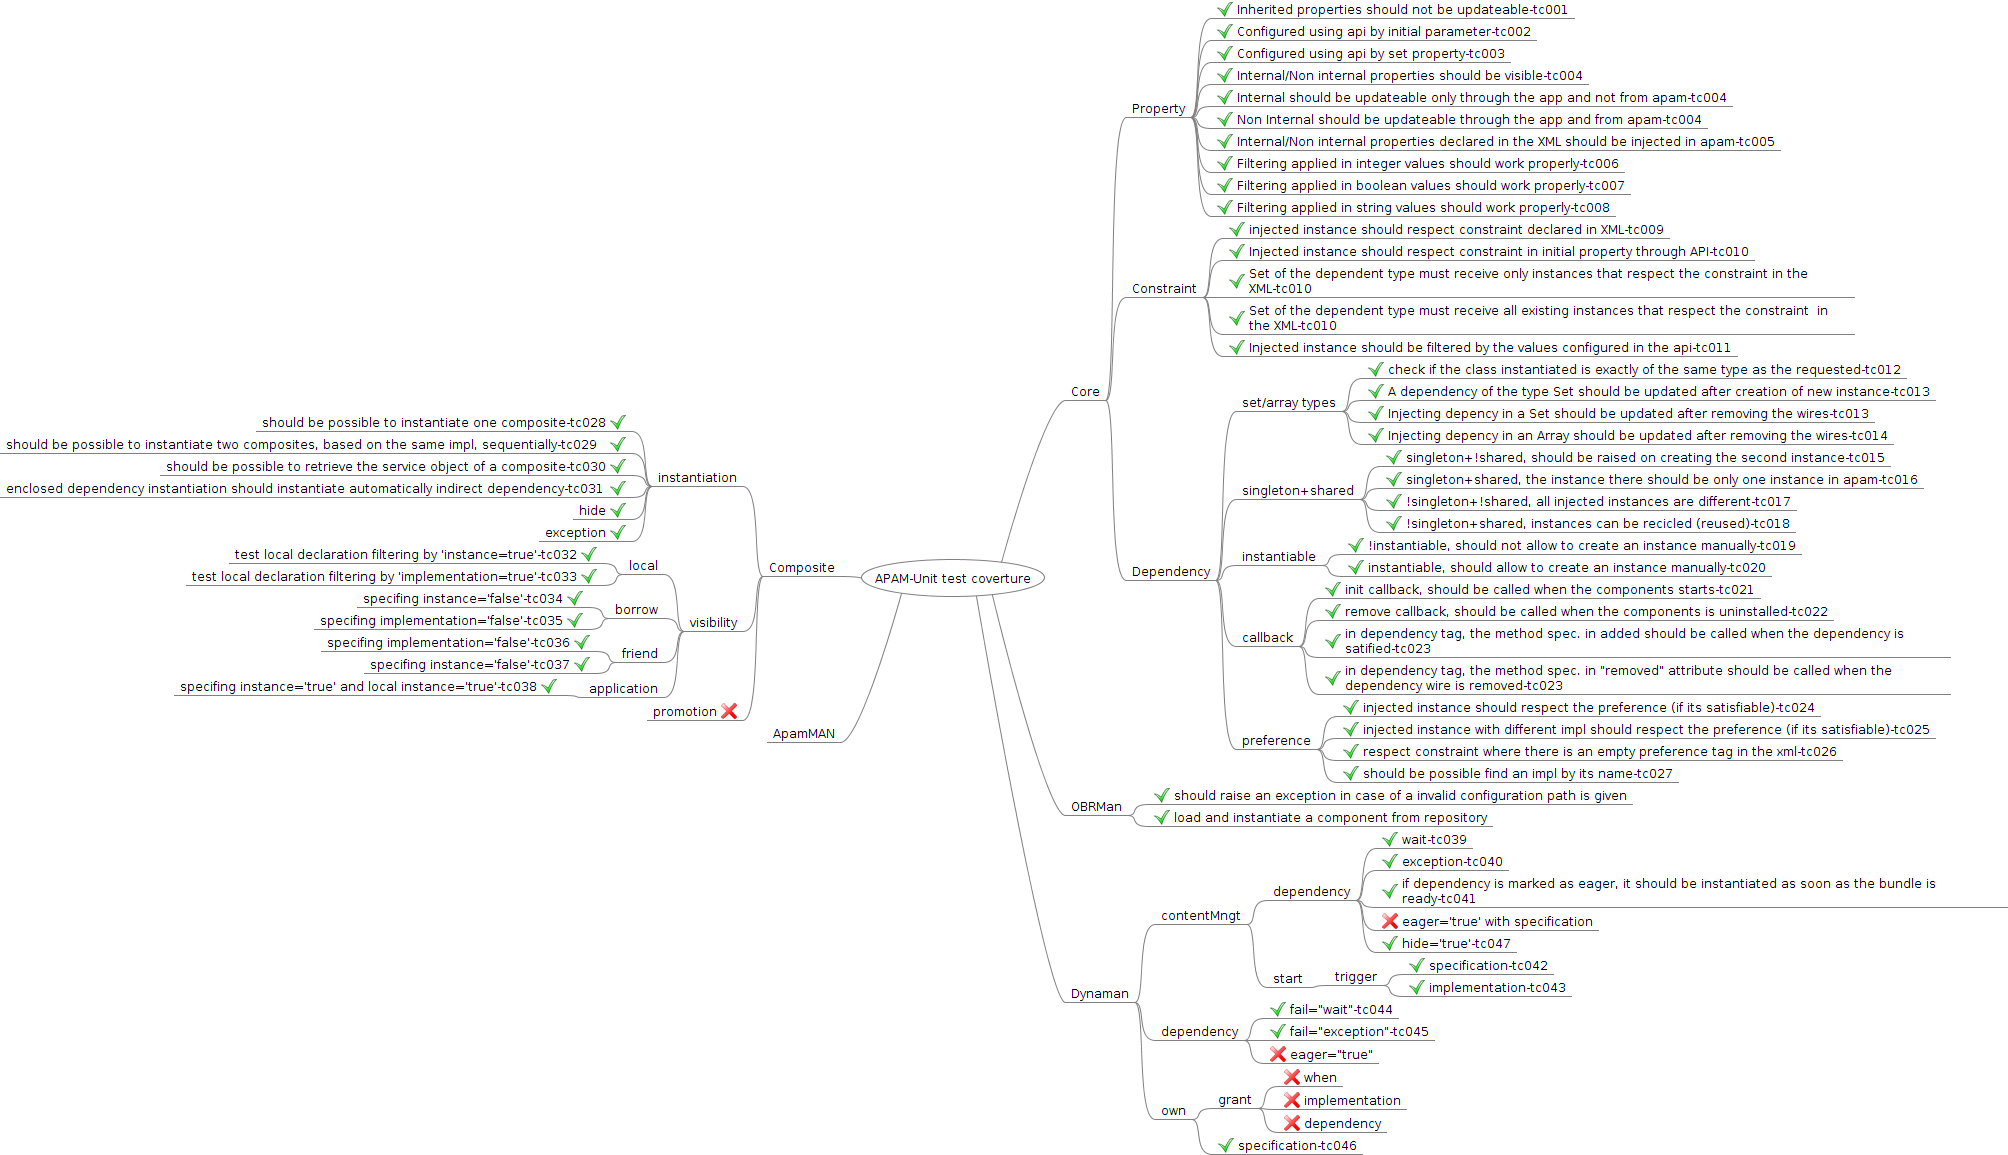
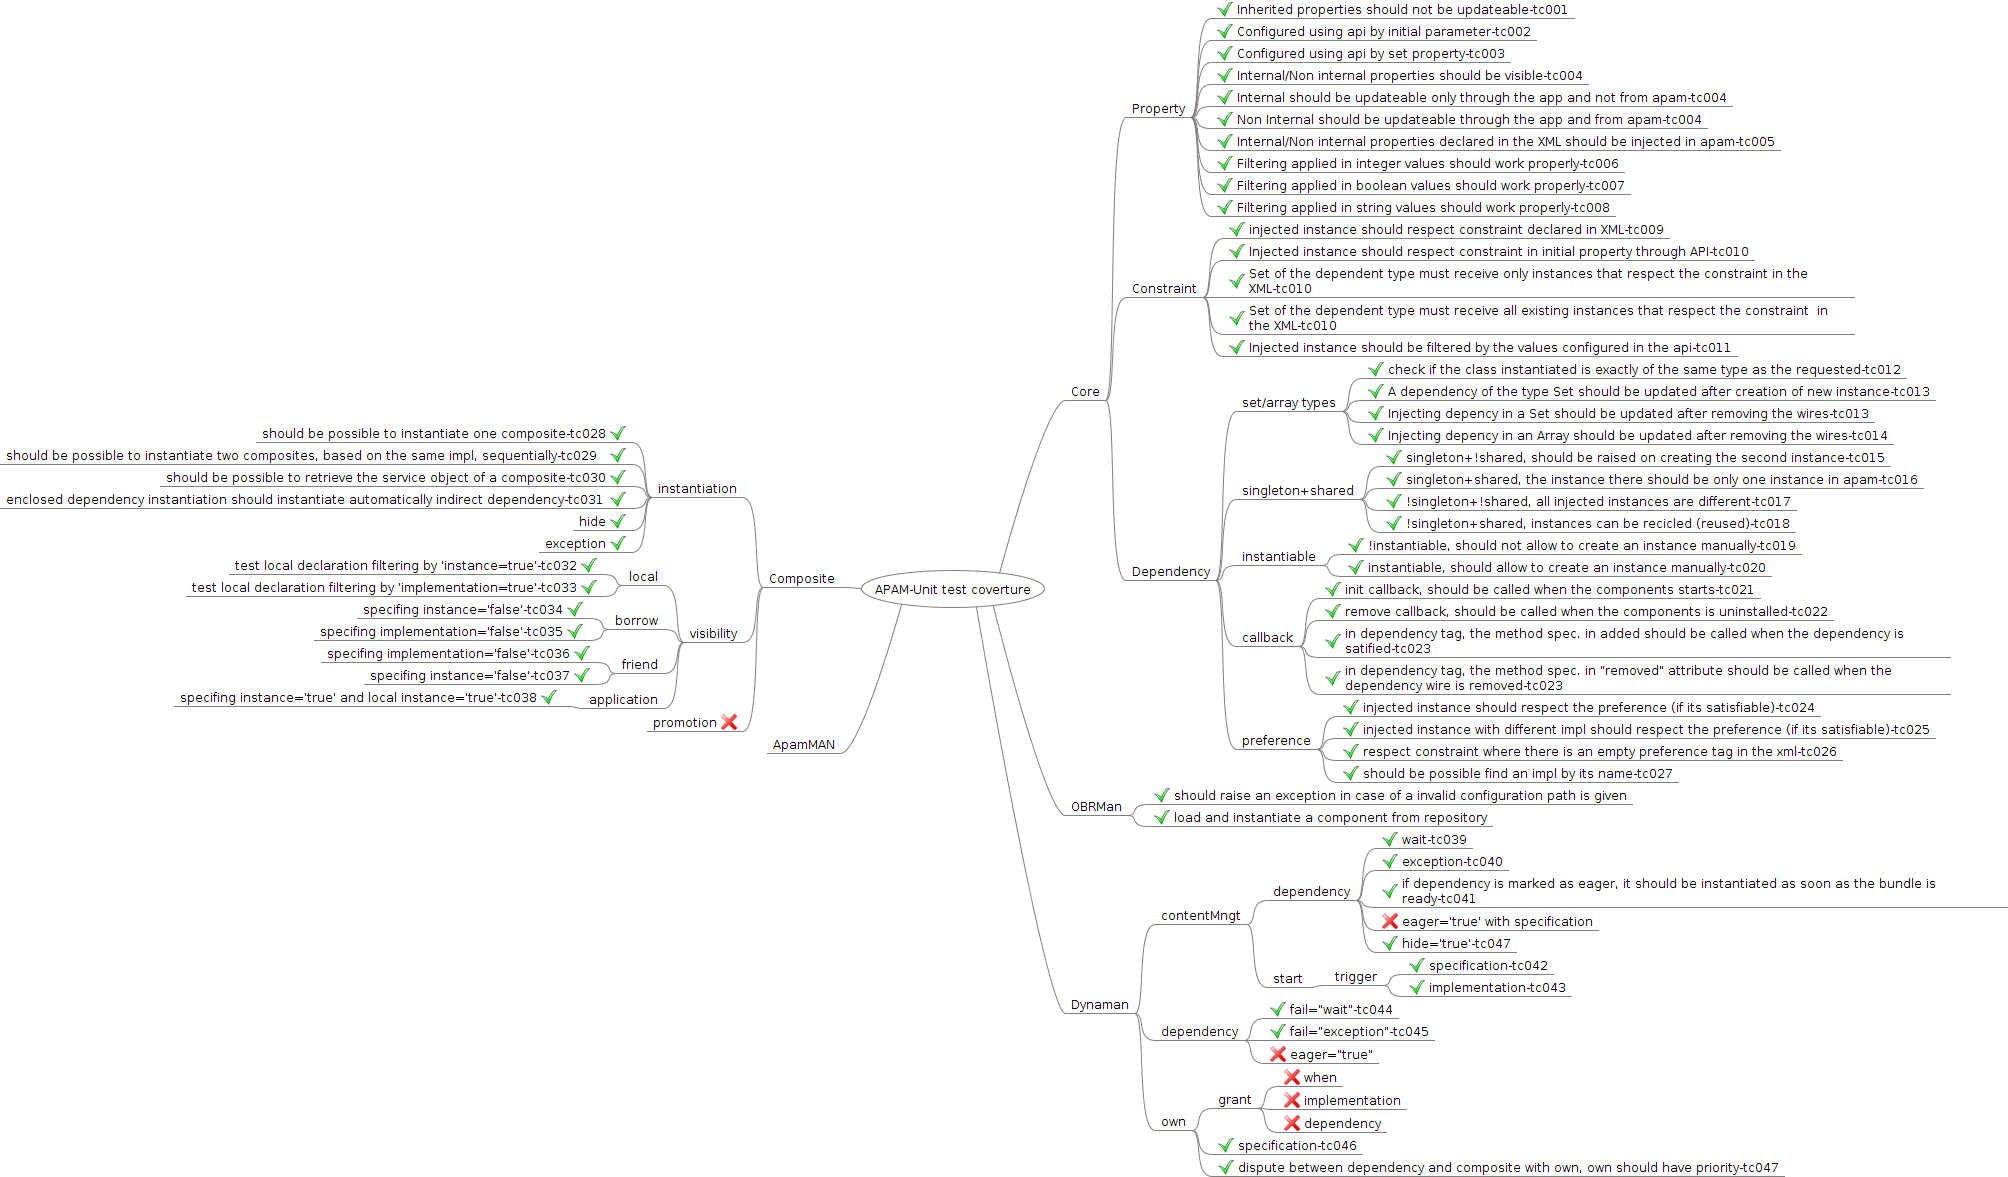
adding test tc047 - composite dispute

diff --git a/tests/services/pax-test/src/test/java/fr/imag/adele/apam/test/testcases/DynamanDependentTest.java b/tests/services/pax-test/src/test/java/fr/imag/adele/apam/test/testcases/DynamanDependentTest.java
@@ -12,6 +12,7 @@ import org.junit.runner.RunWith;
 import org.ops4j.pax.exam.Configuration;
 import org.ops4j.pax.exam.Option;
 import org.ops4j.pax.exam.junit.JUnit4TestRunner;
+import org.osgi.framework.Bundle;
 
 import fr.imag.adele.apam.CST;
 import fr.imag.adele.apam.Composite;
@@ -19,8 +20,8 @@ import fr.imag.adele.apam.CompositeType;
 import fr.imag.adele.apam.Implementation;
 import fr.imag.adele.apam.Instance;
 import fr.imag.adele.apam.pax.test.iface.device.Eletronic;
-import fr.imag.adele.apam.pax.test.impl.FailException;
-import fr.imag.adele.apam.pax.test.impl.S3GroupAImpl;
+import fr.imag.adele.apam.pax.test.s3.impl.FailException;
+import fr.imag.adele.apam.pax.test.s3.impl.S3GroupAImpl;
 import fr.imag.adele.apam.tests.helpers.Constants;
 import fr.imag.adele.apam.tests.helpers.ExtensionAbstract;
 
@@ -357,9 +358,41 @@ public class DynamanDependentTest extends ExtensionAbstract {
 		Assert.assertTrue(message, instancesOfImplementation.size() == 1);
 
 	}
-	
 
+	@Test
+	public void CompositeContentMngtDisputeAmongInjectionAndOwn_tc047() {
 
+		Implementation sharedDependencyImpl = (Implementation) CST.apamResolver.findImplByName(
+				null, "BoschSwitch");
+		
+		Instance sharedDependency=sharedDependencyImpl.createInstance(null, null);
+		
+		CompositeType compositeAImpl = (CompositeType) CST.apamResolver.findImplByName(
+				null, "composite-a");
+		
+		Composite compositeA=(Composite)compositeAImpl.createInstance(null, null);
+		
+		S3GroupAImpl s3b=(S3GroupAImpl)compositeA.getMainInst().getServiceObject();
+		s3b.getElement();
+		
+		System.out.println("Original composite:"+sharedDependency.getComposite());
+		
+		apam.waitForIt(Constants.CONST_WAIT_TIME);
+		
+		CompositeType compositeBImpl = (CompositeType) CST.apamResolver.findImplByName(
+				null, "composite-a-dispute-inject-own");
+
+		Composite compositeB = (Composite) compositeBImpl.createInstance(null, null);
+		
+		apam.waitForIt(Constants.CONST_WAIT_TIME);
+
+		System.out.println("Composite after the own composite instantiation:"+sharedDependency.getComposite());
+		
+		String message="Class A needs the instance IC, when B composite (declaring that owns IC) is instantiated, the IC should receive as parent composite the composite B. This did not happened";
+		
+		Assert.assertTrue(message,sharedDependency.getComposite() == compositeB);
+
+	}
 	
 
 

diff --git a/tests/services/pax-test/src/test/java/fr/imag/adele/apam/test/testcases/ConstraintTest.java b/tests/services/pax-test/src/test/java/fr/imag/adele/apam/test/testcases/ConstraintTest.java
@@ -128,11 +128,10 @@ public class ConstraintTest extends ExtensionAbstract{
 			{
 				add(siemensInst);
 				add(lgInst);
+				add(boschInst);
 				add(samsungInst);
 			}
 		};
-
-		apam.waitForIt(Constants.CONST_WAIT_TIME);
 
 		Implementation s1Impl = CST.apamResolver.findImplByName(null,
 				"fr.imag.adele.apam.pax.test.impl.S1Impl");
@@ -140,7 +139,7 @@ public class ConstraintTest extends ExtensionAbstract{
 		Instance s1Inst = s1Impl.createInstance(null, null);
 		S1Impl s1 = (S1Impl) s1Inst.getServiceObject();
 
-		
+		apam.waitForIt(Constants.CONST_WAIT_TIME);
 		
 		for (Eletronic e : s1.getEletronicInstancesConstraintsInstance()) {
 			Instance p = CST.componentBroker.getInstService(e);
@@ -203,15 +202,16 @@ public class ConstraintTest extends ExtensionAbstract{
 		boschInst.setProperty("currentVoltage", "110");
 		philipsInst.setProperty("currentVoltage", "117");
 		
+		apam.waitForIt(Constants.CONST_WAIT_TIME);
+		
 		Set<Instance> validInstances = new HashSet<Instance>() {
 			{
 				add(siemensInst);
 				add(lgInst);
+				add(boschInst);
 				add(samsungInst);
 			}
 		};
-
-		apam.waitForIt(Constants.CONST_WAIT_TIME);
 
 		Implementation s1Impl = CST.apamResolver.findImplByName(null,
 				"fr.imag.adele.apam.pax.test.impl.S1Impl");
@@ -219,6 +219,8 @@ public class ConstraintTest extends ExtensionAbstract{
 		Instance s1Inst = s1Impl.createInstance(null, null);
 		S1Impl s1 = (S1Impl) s1Inst.getServiceObject();
 
+		apam.waitForIt(Constants.CONST_WAIT_TIME);
+		
 		auxListInstanceReferencedBy("#################",s1.getEletronicInstancesConstraintsInstance());
 		
 		
@@ -245,11 +247,9 @@ public class ConstraintTest extends ExtensionAbstract{
 		auxListInstances("--------------");
 
 		// check if there is no other instance injected
-		Assert.assertTrue("The number of valid instances and the number of injected instances differ, instances not expected were injected",s1.getEletronicInstancesConstraintsInstance().size() == validInstances
+		Assert.assertTrue(String.format("The number of valid instances and the number of injected instances differ, instances not expected were injected. %d injected instead of %d",s1.getEletronicInstancesConstraintsInstance().size(),validInstances.size()),s1.getEletronicInstancesConstraintsInstance().size() == validInstances
 				.size());
 
 	}
-	
-
 	
 }

diff --git a/tests/services/app/apam-pax-samples-impl-s3/src/main/java/fr/imag/adele/apam/pax/test/s3/impl/S3GroupBImpl.java b/tests/services/app/apam-pax-samples-impl-s3/src/main/java/fr/imag/adele/apam/pax/test/s3/impl/S3GroupBImpl.java
@@ -1,13 +1,17 @@
-package fr.imag.adele.apam.pax.test.impl;
+package fr.imag.adele.apam.pax.test.s3.impl;
 
 import fr.imag.adele.apam.pax.test.iface.S3;
 import fr.imag.adele.apam.pax.test.iface.device.Eletronic;
 
 
-public class S3GroupFImpl implements S3
+public class S3GroupBImpl implements S3
 {
 
 	Eletronic element;
+	
+	S3 d;
+	
+	S3 e;
 	
     public String whoami()
     {
@@ -20,6 +24,22 @@ public class S3GroupFImpl implements S3
 
 	public void setElement(Eletronic element) {
 		this.element = element;
+	}
+
+	public S3 getD() {
+		return d;
+	}
+
+	public void setD(S3 d) {
+		this.d = d;
+	}
+
+	public S3 getE() {
+		return e;
+	}
+
+	public void setE(S3 e) {
+		this.e = e;
 	}
     
 }

diff --git a/tests/services/app/apam-pax-samples-impl-s3/src/main/java/fr/imag/adele/apam/pax/test/s3/impl/S3GroupFImpl.java b/tests/services/app/apam-pax-samples-impl-s3/src/main/java/fr/imag/adele/apam/pax/test/s3/impl/S3GroupFImpl.java
@@ -1,17 +1,13 @@
-package fr.imag.adele.apam.pax.test.impl;
+package fr.imag.adele.apam.pax.test.s3.impl;
 
 import fr.imag.adele.apam.pax.test.iface.S3;
 import fr.imag.adele.apam.pax.test.iface.device.Eletronic;
 
 
-public class S3GroupBImpl implements S3
+public class S3GroupFImpl implements S3
 {
 
 	Eletronic element;
-	
-	S3 d;
-	
-	S3 e;
 	
     public String whoami()
     {
@@ -24,22 +20,6 @@ public class S3GroupBImpl implements S3
 
 	public void setElement(Eletronic element) {
 		this.element = element;
-	}
-
-	public S3 getD() {
-		return d;
-	}
-
-	public void setD(S3 d) {
-		this.d = d;
-	}
-
-	public S3 getE() {
-		return e;
-	}
-
-	public void setE(S3 e) {
-		this.e = e;
 	}
     
 }

diff --git a/tests/services/app/apam-pax-samples-impl-s3/src/main/java/fr/imag/adele/apam/pax/test/s3/impl/S3GroupDImpl.java b/tests/services/app/apam-pax-samples-impl-s3/src/main/java/fr/imag/adele/apam/pax/test/s3/impl/S3GroupDImpl.java
@@ -1,15 +1,13 @@
-package fr.imag.adele.apam.pax.test.impl;
+package fr.imag.adele.apam.pax.test.s3.impl;
 
 import fr.imag.adele.apam.pax.test.iface.S3;
 import fr.imag.adele.apam.pax.test.iface.device.Eletronic;
 
 
-public class S3GroupEImpl implements S3
+public class S3GroupDImpl implements S3
 {
 
 	Eletronic element;
-	
-	S3 f;
 	
     public String whoami()
     {
@@ -22,14 +20,6 @@ public class S3GroupEImpl implements S3
 
 	public void setElement(Eletronic element) {
 		this.element = element;
-	}
-
-	public S3 getF() {
-		return f;
-	}
-
-	public void setF(S3 f) {
-		this.f = f;
 	}
     
 }

diff --git a/tests/services/app/apam-pax-samples-impl-s3/src/main/java/fr/imag/adele/apam/pax/test/s3/impl/S3GroupEImpl.java b/tests/services/app/apam-pax-samples-impl-s3/src/main/java/fr/imag/adele/apam/pax/test/s3/impl/S3GroupEImpl.java
@@ -1,13 +1,15 @@
-package fr.imag.adele.apam.pax.test.impl;
+package fr.imag.adele.apam.pax.test.s3.impl;
 
 import fr.imag.adele.apam.pax.test.iface.S3;
 import fr.imag.adele.apam.pax.test.iface.device.Eletronic;
 
 
-public class S3GroupCImpl implements S3
+public class S3GroupEImpl implements S3
 {
 
 	Eletronic element;
+	
+	S3 f;
 	
     public String whoami()
     {
@@ -20,6 +22,14 @@ public class S3GroupCImpl implements S3
 
 	public void setElement(Eletronic element) {
 		this.element = element;
+	}
+
+	public S3 getF() {
+		return f;
+	}
+
+	public void setF(S3 f) {
+		this.f = f;
 	}
     
 }

diff --git a/tests/services/pax-test/src/test/java/fr/imag/adele/apam/test/testcases/CompositeTest.java b/tests/services/pax-test/src/test/java/fr/imag/adele/apam/test/testcases/CompositeTest.java
@@ -17,9 +17,9 @@ import fr.imag.adele.apam.ManagerModel;
 import fr.imag.adele.apam.pax.test.impl.S2InnerImpl;
 import fr.imag.adele.apam.pax.test.impl.S2MiddleImpl;
 import fr.imag.adele.apam.pax.test.impl.S2OutterImpl;
-import fr.imag.adele.apam.pax.test.impl.S3GroupAImpl;
-import fr.imag.adele.apam.pax.test.impl.S3GroupBImpl;
 import fr.imag.adele.apam.pax.test.impl.device.GenericSwitch;
+import fr.imag.adele.apam.pax.test.s3.impl.S3GroupAImpl;
+import fr.imag.adele.apam.pax.test.s3.impl.S3GroupBImpl;
 import fr.imag.adele.apam.tests.helpers.ExtensionAbstract;
 
 @RunWith(JUnit4TestRunner.class)

diff --git a/documentations/technical/test-coverture/APAM-UnitTest-Coverture-OnFreeMindApp.mm b/documentations/technical/test-coverture/APAM-UnitTest-Coverture-OnFreeMindApp.mm
@@ -239,8 +239,8 @@
 <node CREATED="1353942131367" ID="ID_1134763459" MODIFIED="1354296536032" TEXT="specification-tc046">
 <icon BUILTIN="button_ok"/>
 </node>
-<node CREATED="1354297652923" ID="ID_41966136" MODIFIED="1354297707878" TEXT="between own and dependency injection, own should have priority">
-<icon BUILTIN="button_cancel"/>
+<node CREATED="1354297652923" ID="ID_41966136" MODIFIED="1354628609824" TEXT="dispute between dependency and composite with own, own should have priority-tc047">
+<icon BUILTIN="button_ok"/>
 </node>
 </node>
 </node>

diff --git a/tests/services/app/apam-pax-samples-impl-s3/src/main/java/fr/imag/adele/apam/pax/test/s3/impl/S3GroupCImpl.java b/tests/services/app/apam-pax-samples-impl-s3/src/main/java/fr/imag/adele/apam/pax/test/s3/impl/S3GroupCImpl.java
@@ -1,10 +1,10 @@
-package fr.imag.adele.apam.pax.test.impl;
+package fr.imag.adele.apam.pax.test.s3.impl;
 
 import fr.imag.adele.apam.pax.test.iface.S3;
 import fr.imag.adele.apam.pax.test.iface.device.Eletronic;
 
 
-public class S3GroupDImpl implements S3
+public class S3GroupCImpl implements S3
 {
 
 	Eletronic element;

diff --git a/tests/services/app/apam-pax-samples-impl-s3/src/main/java/fr/imag/adele/apam/pax/test/s3/impl/S3GroupAImpl.java b/tests/services/app/apam-pax-samples-impl-s3/src/main/java/fr/imag/adele/apam/pax/test/s3/impl/S3GroupAImpl.java
@@ -1,4 +1,4 @@
-package fr.imag.adele.apam.pax.test.impl;
+package fr.imag.adele.apam.pax.test.s3.impl;
 
 import fr.imag.adele.apam.pax.test.iface.S3;
 import fr.imag.adele.apam.pax.test.iface.device.Eletronic;

diff --git a/tests/services/app/apam-pax-samples-impl-s3/src/main/java/fr/imag/adele/apam/pax/test/s3/impl/FailException.java b/tests/services/app/apam-pax-samples-impl-s3/src/main/java/fr/imag/adele/apam/pax/test/s3/impl/FailException.java
@@ -1,4 +1,4 @@
-package fr.imag.adele.apam.pax.test.impl;
+package fr.imag.adele.apam.pax.test.s3.impl;
 
 public class FailException extends Exception {
 

diff --git a/tests/services/app/apam-pax-samples-impl-s3/src/main/java/fr/imag/adele/apam/pax/test/s3/impl/DummieForComposite.java b/tests/services/app/apam-pax-samples-impl-s3/src/main/java/fr/imag/adele/apam/pax/test/s3/impl/DummieForComposite.java
@@ -1,0 +1,5 @@
+package fr.imag.adele.apam.pax.test.s3.impl;
+
+public class DummieForComposite {
+
+}
